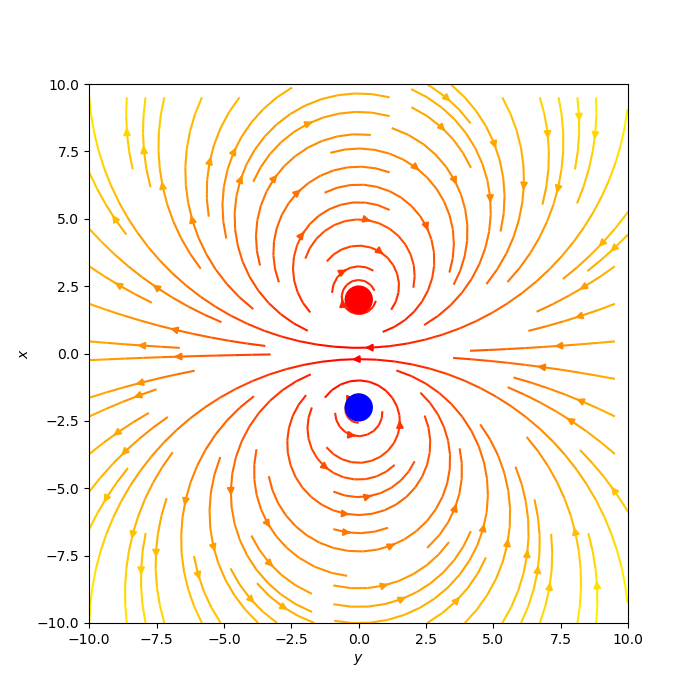
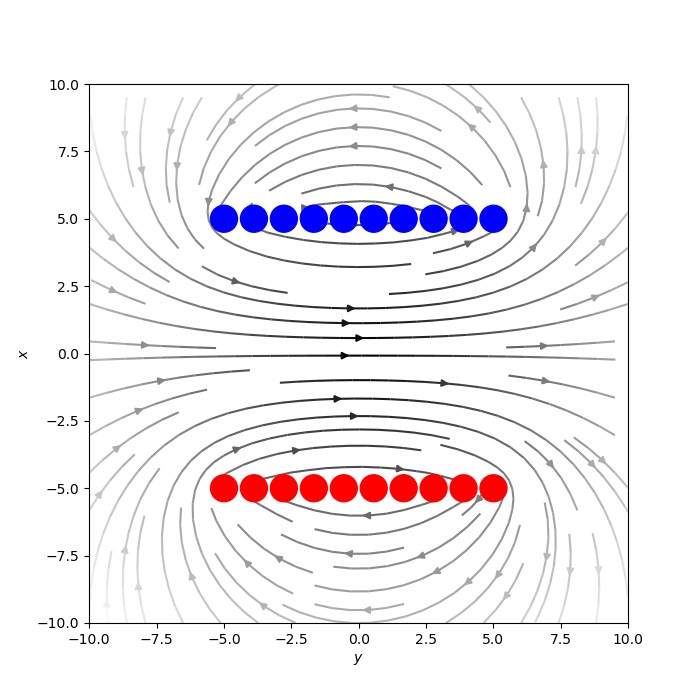
EBFieldSolver

Changed region(s): [[0.12, 0.12, 0.9, 0.9]]

diff --git a/src/ElectricField.py b/src/ElectricField.py
@@ -99,25 +99,25 @@ def compute_bodies(charges):
     return charge_bodies
 
 
-nx, ny = 50, 50
+nx, ny = 100, 100
 x, y = np.meshgrid(np.linspace(-5, 5, nx), np.linspace(-5, 5, ny))
 
 fig = plt.figure(figsize=(7, 7))
 ax = fig.add_subplot(111)
-ax.set(xlim=(-5, 5), ylim=(-5, 5))
+# ax.set(xlim=(-5, 5), ylim=(-5, 5))
 ax.set_xlabel(r'$x$')
 ax.set_ylabel(r'$y$')
 ax.set_aspect('equal')
 
-field_x, field_y = compute_total_field(x, y, charges)
+Ex, Ey = compute_total_field(x, y, charges)
 # norm_field = norm_total_field(x, y, charges)
 # ax.quiver(x, y, field_x / norm_field, field_y / norm_field, color='black', scale=25)
-ax.streamplot(x, y, field_x, field_y, color='black')
+ax.streamplot(x, y, Ex, Ey, color=-np.hypot(x, y), cmap='binary')
 
 total_potentials = compute_total_potentials(x, y, charges)
 z = np.linspace(np.min(total_potentials) / 10, np.max(total_potentials) / 10, 10)
 # ax.contour(x, y, total_potentials, z, colors='k')
-ax.contourf(x, y, total_potentials, z, cmap='coolwarm')
+ax.contourf(x, y, total_potentials, z, cmap='bwr')
 # ax.clabel(pots, inline=True, fontsize=10)
 
 total_bodies = compute_bodies(charges)

diff --git a/src/MagneticField.py b/src/MagneticField.py
@@ -54,13 +54,13 @@ conductors = []
 # conductors.append(Conductor(1.0, [0.0, 0.0]))
 
 # conductor loop
-conductors.append(Conductor(1.0, [0.0, 2.0]))
-conductors.append(Conductor(-1.0, [0.0, -2.0]))
+# conductors.append(Conductor(1.0, [0.0, 2.0]))
+# conductors.append(Conductor(-1.0, [0.0, -2.0]))
 
 # coil
-# for i in np.linspace(-5, 5, 10):
-#     conductors.append(Conductor(-1.0, [i, 2.0]))
-#     conductors.append(Conductor(1.0, [i, -2.0]))
+for i in np.linspace(-5, 5, 10):
+    conductors.append(Conductor(-1.0, [i, 5.0]))
+    conductors.append(Conductor(1.0, [i, -5.0]))
 
 nx, ny = 100, 100
 x, y = np.meshgrid(np.linspace(-10, 10, nx), np.linspace(-10, 10, ny))
@@ -74,7 +74,7 @@ ax.set_aspect('equal')
 Bx, By = compute_total_field(x, y, conductors)
 # Bmax = np.hypot(Bx, By)
 # ax.quiver(x, y, z, Bx, By, Bz, color='b', length=1, normalize=True)
-ax.streamplot(x, y, Bx, By, zorder=1, color=np.hypot(x, y), cmap='autumn')
+ax.streamplot(x, y, Bx, By, zorder=1, color=-np.hypot(x, y), cmap='binary')
 total_bodies = compute_bodies(conductors)
 for body in total_bodies:
     ax.add_patch(body)
